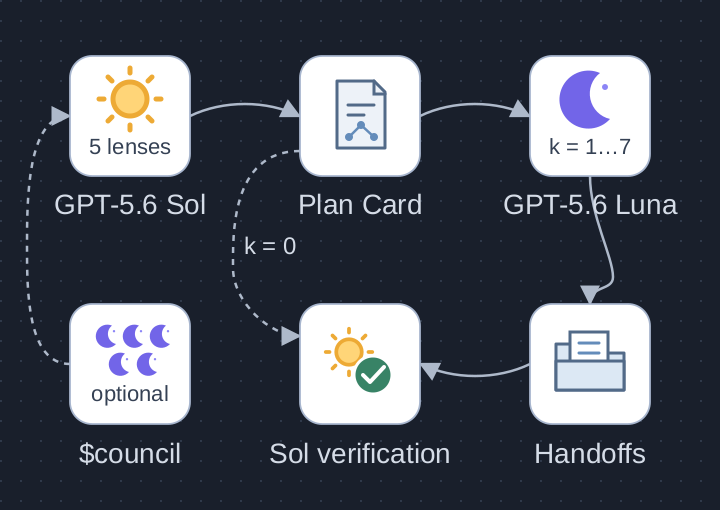
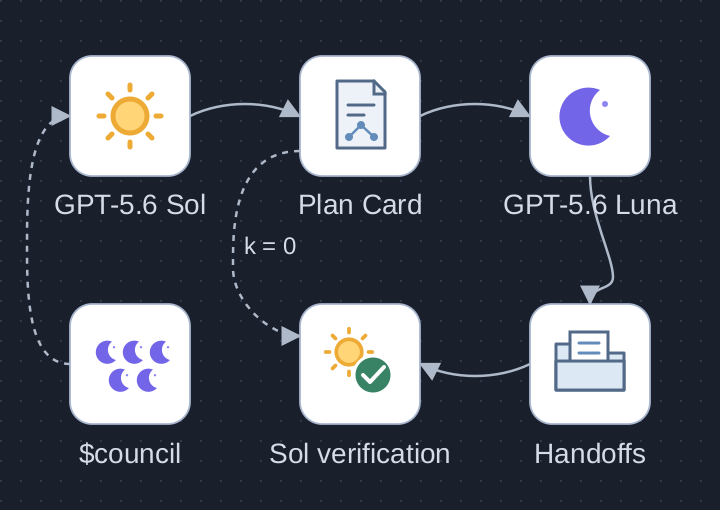
docs: simplify architecture labels and clarify Council gate

Changed region(s): [[0.1222, 0.6176, 0.2444, 0.7941], [0.1222, 0.1176, 0.2444, 0.3235], [0.7639, 0.1176, 0.8861, 0.2941]]

diff --git a/assets/architecture-provenance.md b/assets/architecture-provenance.md
@@ -9,7 +9,7 @@
 - Sol freezes contracts, ownership, task IDs, dependencies, handoffs, and checks in the Plan Card. `k` is the total selected Luna task/session count from zero through seven. At zero, Sol completes and verifies directly; no Luna worker runs.
 - For positive `k`, isolated GPT-5.6 Luna `codex exec` sessions share the filesystem and provide terminal handoffs. Sol integrates successful results and owns combined verification. Failure skips the failed predecessor's descendants while unrelated branches continue.
 - Schema v1 is the default independent ready wave. Schema v2 admits a frozen static DAG; its `concurrency_limit` is the simultaneous-active cap, separate from total task count. Rolling scheduling unlocks successors on success. Barrier mode is reserved for an A/B benchmark or documented compatibility investigation.
-- The dashed `$council` branch is separate, full external planning advice and applies only when explicitly invoked. It is not an automatically launched set of five workers. The diagram is an overview of the default and explicit optional paths; separately documented high-risk gates remain governed by the source contract.
+- The dashed `$council` branch is separate, full external planning advice and applies when explicitly invoked or required by a separately documented high-risk gate. It is not an automatically launched set of five workers. The diagram is an overview of the default and optional paths; high-risk gates remain governed by the source contract.
 
 ## Artwork and export
 

diff --git a/README.md b/README.md
@@ -4,7 +4,7 @@
 
 [Editable SVG](assets/architecture.svg) · [Artwork and contract provenance](assets/architecture-provenance.md)
 
-Sol's five Council views are **in-thread planning lenses**. Sol freezes the Plan Card, selects **k = 0..7 total Luna task sessions**, and verifies the combined result. With k=0, Sol completes the work directly. For schema v2, the simultaneous-active `concurrency_limit` is separate from k. A failed predecessor skips its descendants; unrelated branches continue. The dashed full `$council` branch is optional and requires an explicit invocation. Sun and moon symbols are original conceptual artwork.
+Sol's five Council views are **in-thread planning lenses**. Sol freezes the Plan Card, selects **k = 0..7 total Luna task sessions**, and verifies the combined result. With k=0, Sol completes the work directly. For schema v2, the simultaneous-active `concurrency_limit` is separate from k. A failed predecessor skips its descendants; unrelated branches continue. The dashed full `$council` branch is optional and requires an explicit invocation or a separately documented high-risk gate. Sun and moon symbols are original conceptual artwork.
 
 GPT-5.6 Sol을 루트 지휘자로 두고, 필요할 때만 GPT-5.6 Luna 작업자를 병렬로 실행하는 Codex Skill입니다. 복잡한 코딩·리팩터링·데이터·UI·검증 작업을 작은 단위로 나누고, 계약을 고정한 뒤 결과를 다시 루트에서 통합하고 검증합니다.
 
